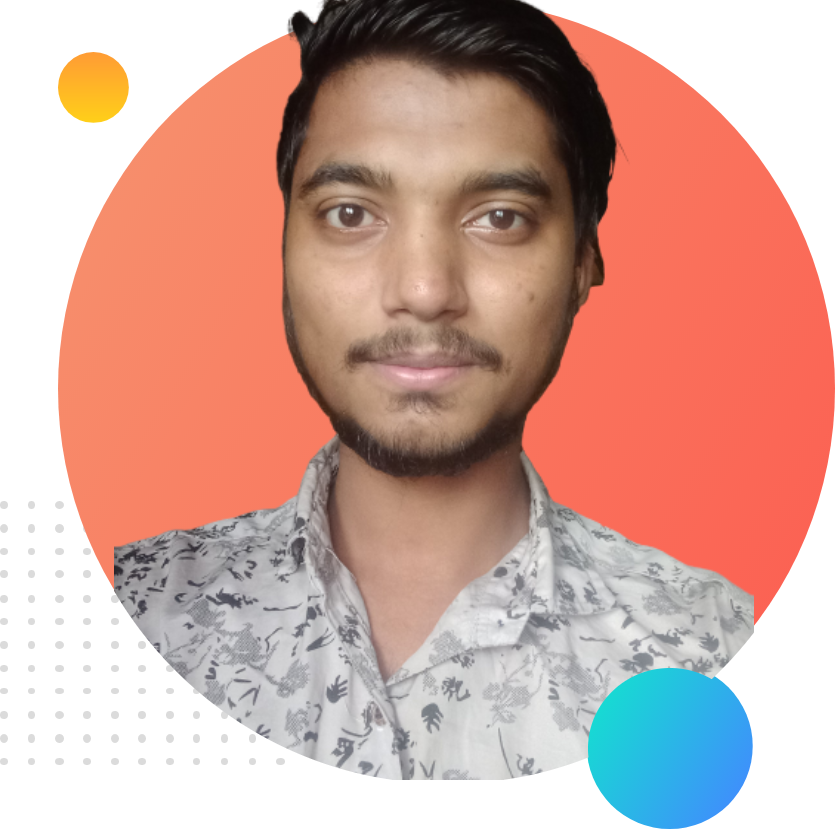
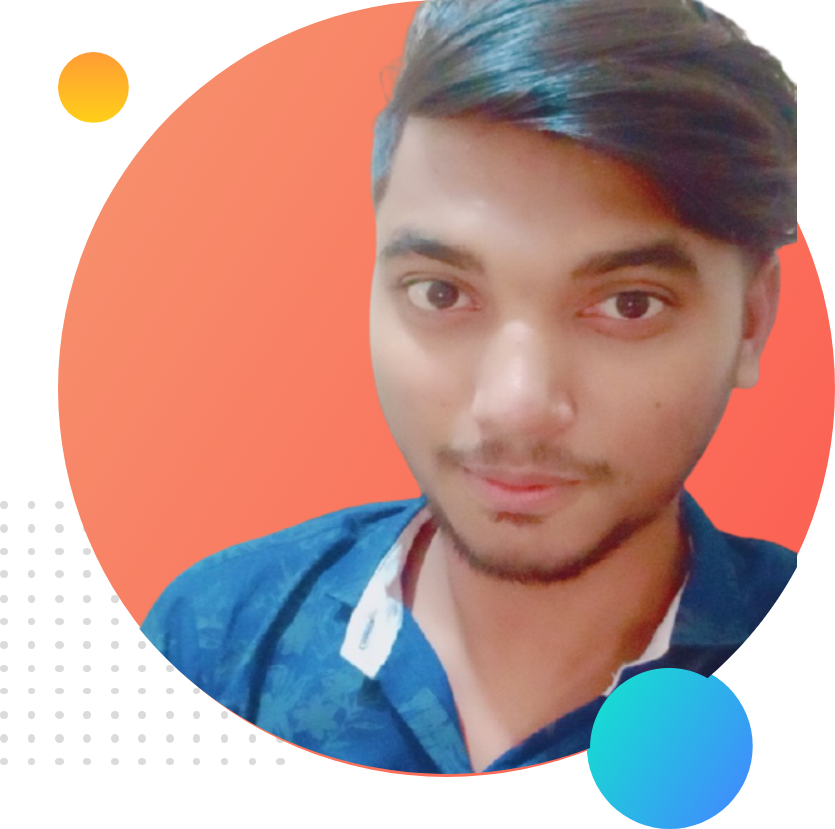
skill

diff --git a/src/components/About/About.js b/src/components/About/About.js
@@ -3,7 +3,137 @@ import React from 'react';
 const About = () => {
     return (
         <div>
-            <h1>this is about</h1>
+            <h2 className="text-center text-light">About</h2>
+            <div className="row mt-5 mb-5  text-light">
+                <p className="col-md-6" style={{ textAlign: 'justify' }}><b className="text-info">Myself:</b> I am Mehedy Hassan. I am a Professional Web Developer. I can do HTML, CSS, JS React & others programming languages in professionally. I have learned web development since 2020. Now I can do all kinds of web development work. I always want to learn something new and benefit people through it.</p>
+                <p className="col-md-6" style={{ textAlign: 'justify' }}><b className="text-info">Diligent Project Management:</b> Offering a proven record of success leading all phases of diverse React  Projects, Solutions Designs, Enterprise Deployments, Cross Platform Migrations, Annual Maintenance Support etc etc …</p>
+                <p className="col-md-6" style={{ textAlign: 'justify' }}><b className="text-info">Business Strategist:</b> Plan and Manage high value projects aligning business goals with technology solutions to drive process improvements, competitive advantage and bottom-line gains. Apply change of Strategy when necessary to produce high-quality deliverables which meets timeline and budgetary targets.</p>
+                <p className="col-md-6" style={{ textAlign: 'justify' }}><b className="text-info">Excellent Communicator:</b> Leverage Technical, Business and Financial acumen to communicate effectively with client executives and their respective teams. Conducting Productive Corporate Trainings as MCT, to create opportunity of future business continuation and keep customers aligned with industries best practice and latest updates on relevant product and solutions.</p>
+            </div>
+            <div className="text-light">
+                <h2 className="text-center text-light">Skills</h2>
+                <div className="row ">
+                    <p className="col-md-2">CSS</p>
+                    <div className="col-md-10">
+                        <div className="progress">
+                            <div className="progress-bar progress-bar-striped bg-warning" role="progressbar" style={{ width: '90%' }} aria-valuenow="75" aria-valuemin="0" aria-valuemax="100">
+                                <p className="pt-3">90%</p>
+                            </div>
+                        </div>
+                    </div>
+                </div>
+                <div className="row">
+                    <p className="col-md-2">HTML</p>
+                    <div className="col-md-10">
+                        <div className="progress">
+                            <div className="progress-bar progress-bar-striped bg-danger" role="progressbar" style={{ width: '95%' }} aria-valuenow="75" aria-valuemin="0" aria-valuemax="100">
+                                <p className="pt-3">95%</p>
+                            </div>
+                        </div>
+                    </div>
+                </div>
+                <div className="row">
+                    <p className="col-md-2">JavaScript</p>
+                    <div className="col-md-10">
+                        <div className="progress">
+                            <div className="progress-bar progress-bar-striped bg-info" role="progressbar" style={{ width: '90%' }} aria-valuenow="75" aria-valuemin="0" aria-valuemax="100">
+                                <p className="pt-3">90%</p>
+                            </div>
+                        </div>
+                    </div>
+                </div>
+                <div className="row">
+                    <p className="col-md-2">React</p>
+                    <div className="col-md-10">
+                        <div className="progress">
+                            <div className="progress-bar progress-bar-striped bg-success" role="progressbar" style={{ width: '85%' }} aria-valuenow="75" aria-valuemin="0" aria-valuemax="100">
+                                <p className="pt-3">85%</p>
+                            </div>
+                        </div>
+                    </div>
+                </div>
+                <div className="row">
+                    <p className="col-md-2">Bootstrap</p>
+                    <div className="col-md-10">
+                        <div className="progress">
+                            <div className="progress-bar progress-bar-striped bg-dark" role="progressbar" style={{ width: '90%' }} aria-valuenow="75" aria-valuemin="0" aria-valuemax="100">
+                                <p className="pt-3">90%</p>
+                            </div>
+                        </div>
+                    </div>
+                </div>
+                <div className="row">
+                    <p className="col-md-2">Node.js</p>
+                    <div className="col-md-10">
+                        <div className="progress">
+                            <div className="progress-bar progress-bar-striped bg-primary" role="progressbar" style={{ width: '85%' }} aria-valuenow="75" aria-valuemin="0" aria-valuemax="100">
+                                <p className="pt-3">85%</p>
+                            </div>
+                        </div>
+                    </div>
+                </div>
+                <div className="row">
+                    <p className="col-md-2">Material ui</p>
+                    <div className="col-md-10">
+                        <div className="progress">
+                            <div className="progress-bar progress-bar-striped bg-warning" role="progressbar" style={{ width: '80%' }} aria-valuenow="75" aria-valuemin="0" aria-valuemax="100">
+                                <p className="pt-3">80%</p>
+                            </div>
+                        </div>
+                    </div>
+                </div>
+                <div className="row">
+                    <p className="col-md-2">Express.js</p>
+                    <div className="col-md-10">
+                        <div className="progress">
+                            <div className="progress-bar progress-bar-striped bg-danger" role="progressbar" style={{ width: '60%' }} aria-valuenow="75" aria-valuemin="0" aria-valuemax="100">
+                                <p className="pt-3">60%</p>
+                            </div>
+                        </div>
+                    </div>
+                </div>
+                <div className="row">
+                    <p className="col-md-2">Mongodb</p>
+                    <div className="col-md-10">
+                        <div className="progress">
+                            <div className="progress-bar progress-bar-striped bg-info" role="progressbar" style={{ width: '70%' }} aria-valuenow="75" aria-valuemin="0" aria-valuemax="100">
+                                <p className="pt-3">70%</p>
+                            </div>
+                        </div>
+                    </div>
+                </div>
+                <div className="row">
+                    <p className="col-md-2">Firebase</p>
+                    <div className="col-md-10">
+                        <div className="progress">
+                            <div className="progress-bar progress-bar-striped bg-success" role="progressbar" style={{ width: '60%' }} aria-valuenow="75" aria-valuemin="0" aria-valuemax="100">
+                                <p className="pt-3">60%</p>
+                            </div>
+                        </div>
+                    </div>
+                </div>
+                <div className="row">
+                    <p className="col-md-2">Heroku</p>
+                    <div className="col-md-10">
+                        <div className="progress">
+                            <div className="progress-bar progress-bar-striped bg-dark" role="progressbar" style={{ width: '75%' }} aria-valuenow="75" aria-valuemin="0" aria-valuemax="100">
+                                <p className="pt-3">75%</p>
+                            </div>
+                        </div>
+                    </div>
+                </div>
+                <div className="row">
+                    <p className="col-md-2">Redux</p>
+                    <div className="col-md-10">
+                        <div className="progress">
+                            <div className="progress-bar progress-bar-striped bg-primary" role="progressbar" style={{ width: '70%' }} aria-valuenow="75" aria-valuemin="0" aria-valuemax="100">
+                                <p className="pt-3">70%</p>
+                            </div>
+                        </div>
+                    </div>
+                </div>
+
+            </div>
         </div>
     );
 };

diff --git a/src/components/Header/Header.js b/src/components/Header/Header.js
@@ -6,25 +6,26 @@ import { Link } from 'react-router-dom';
 
 const Header = () => {
     return (
-        <div style={{backgroundColor: '#dfe185'}} className="row align-items-center">
-            <div className="col-6 p-2">
-                <h1 className=" text-primary">Mehedy</h1>
+        <div>
+            <div style={{ backgroundColor: '#dfe185' }} className="row align-items-center">
+                <div className="col-6 p-2">
+                    <h1 className=" text-primary">Mehedy</h1>
+                </div>
+                <div className="col-6 justify-content-end ">
+                    <Navbar className="justify-content-end  " expand="lg">
+                        <Navbar.Toggle aria-controls="basic-navbar-nav" />
+                        <Navbar.Collapse id="basic-navbar-nav ">
+                            <Nav className="mr-auto" activeKey="/home">
+                                <Link className="p-2" to="/home"><FontAwesomeIcon icon={faHome} /> Home</Link>
+                                <Link className="p-2" to="/about"><FontAwesomeIcon icon={faAddressCard} /> About</Link>
+                                <Link className="p-2" to="/project"><FontAwesomeIcon icon={faTasks} /> Project</Link>
+                                <Link className="p-2" to="/resume"><FontAwesomeIcon icon={faFileWord} /> Resume</Link>
+                                <Link className="p-2" to="/blog"><FontAwesomeIcon icon={faThLarge} /> Blog</Link>
+                            </Nav>
+                        </Navbar.Collapse>
+                    </Navbar>
+                </div>
             </div>
-            <div className="col-6 justify-content-end ">
-                <Navbar className="justify-content-end  " expand="lg">
-                    <Navbar.Toggle aria-controls="basic-navbar-nav" />
-                    <Navbar.Collapse id="basic-navbar-nav ">
-                        <Nav className="mr-auto" activeKey="/home">
-                            <Link className="p-2" to="/home"><FontAwesomeIcon icon={faHome} /> Home</Link>
-                            <Link className="p-2" to="/project"><FontAwesomeIcon icon={faTasks} /> Project</Link>
-                            <Link className="p-2" to="/resume"><FontAwesomeIcon icon={faFileWord} /> Resume</Link>
-                            <Link className="p-2" to="/blog"><FontAwesomeIcon icon={faThLarge} /> Blog</Link>
-                            <Link className="p-2" to="/about"><FontAwesomeIcon icon={faAddressCard} /> About</Link>
-                        </Nav>
-                    </Navbar.Collapse>
-                </Navbar>
-            </div>
-
         </div>
     );
 };

diff --git a/src/components/Footer/Footer.js b/src/components/Footer/Footer.js
@@ -5,11 +5,11 @@ import React from 'react';
 const Footer = () => {
     return (
             <div  style={{backgroundColor: '#dfe185'}}  class="col d-flex justify-content-center">
-                <a className="p-2" href="https://www.facebook.com/mehedysr"><FontAwesomeIcon icon={faFacebook} /></a>
-                <a className="p-2  text-dark"  href="https://github.com/mdmehedyhassan"><FontAwesomeIcon icon={faGithub} /></a>
-                <a className="p-2 text-primary"  href="https://twitter.com/MdMehedyHassa10"><FontAwesomeIcon icon={faTwitter} /></a>
-                <a className="p-2"  href="https://www.linkedin.com/in/md-mehedy-hassan-387278203/"><FontAwesomeIcon icon={faLinkedin} /></a>
-                <a className="p-2 text-danger"  href=""><FontAwesomeIcon icon={faYoutube} /></a>
+                <a className="p-2" target="_blank"  href="https://www.facebook.com/mehedysr"><FontAwesomeIcon icon={faFacebook} /></a>
+                <a className="p-2  text-dark" target="_blank"   href="https://github.com/mdmehedyhassan"><FontAwesomeIcon icon={faGithub} /></a>
+                <a className="p-2 text-primary" target="_blank"   href="https://twitter.com/MdMehedyHassa10"><FontAwesomeIcon icon={faTwitter} /></a>
+                <a className="p-2" target="_blank"   href="https://www.linkedin.com/in/md-mehedy-hassan-387278203/"><FontAwesomeIcon icon={faLinkedin} /></a>
+                <a className="p-2 text-danger"  target="_blank"  href="https://www.youtube.com/"><FontAwesomeIcon icon={faYoutube} /></a>
             </div>
 
     );

diff --git a/src/components/HomeHeader/HomeHeader.js b/src/components/HomeHeader/HomeHeader.js
@@ -1,10 +1,19 @@
 import React from 'react';
+import mehedy1 from '../../images/mehedy1.png'
 
 const HomeHeader = () => {
     return (
-        <div class="row d-flex text-light">
-            <div class="col-md-6">.col-6</div>
-            <div class="col-md-6">.col-6</div>
+        <div class="row mb-5 d-flex align-items-center text-light">
+            <div class="col-md-6">
+                <h1>Hello, I'M </h1>
+                <h1>MD Mehedy Hassan</h1>
+                <h3>Full Stack Web developer</h3>
+                <h3>with in Bangladesh</h3>
+                <a className="btn btn-success" target="_blank" href="https://drive.google.com/file/d/1quuqu9NmjQz4eSFOkHzfX2kLE0TqXeDV/view"> Download Resume</a>
+            </div>
+            <div class="col-md-6">
+                <img className="w-100" src={mehedy1} alt=""/>
+            </div>
         </div>
     );
 };

diff --git a/src/App.js b/src/App.js
@@ -24,6 +24,9 @@ function App() {
             <Route path="/home">
               <Home />
             </Route>
+            <Route path="/about">
+              <About />
+            </Route>
             <Route path="/project">
               <Project />
             </Route>
@@ -32,9 +35,6 @@ function App() {
             </Route>
             <Route path="/blog">
               <Blog />
-            </Route>
-            <Route path="/about">
-              <About />
             </Route>
             <Route exact path="/">
               <Home />

diff --git a/src/components/Project/Project.js b/src/components/Project/Project.js
@@ -4,6 +4,7 @@ const Project = () => {
     return (
         <div>
             <h1> this is Project</h1>
+
         </div>
     );
 };

diff --git a/README.md b/README.md
@@ -1,71 +1,5 @@
-# Getting Started with Create React App
+## Getting Started with Create React App
 
 This project was bootstrapped with [Create React App](https://github.com/facebook/create-react-app).
 
-## Available Scripts
-
-In the project directory, you can run:
-
-### `npm start`
-
-Runs the app in the development mode.\
-Open [http://localhost:3000](http://localhost:3000) to view it in the browser.
-
-The page will reload if you make edits.\
-You will also see any lint errors in the console.
-
-### `npm test`
-
-Launches the test runner in the interactive watch mode.\
-See the section about [running tests](https://facebook.github.io/create-react-app/docs/running-tests) for more information.
-
-### `npm run build`
-
-Builds the app for production to the `build` folder.\
-It correctly bundles React in production mode and optimizes the build for the best performance.
-
-The build is minified and the filenames include the hashes.\
-Your app is ready to be deployed!
-
-See the section about [deployment](https://facebook.github.io/create-react-app/docs/deployment) for more information.
-
-### `npm run eject`
-
-**Note: this is a one-way operation. Once you `eject`, you can’t go back!**
-
-If you aren’t satisfied with the build tool and configuration choices, you can `eject` at any time. This command will remove the single build dependency from your project.
-
-Instead, it will copy all the configuration files and the transitive dependencies (webpack, Babel, ESLint, etc) right into your project so you have full control over them. All of the commands except `eject` will still work, but they will point to the copied scripts so you can tweak them. At this point you’re on your own.
-
-You don’t have to ever use `eject`. The curated feature set is suitable for small and middle deployments, and you shouldn’t feel obligated to use this feature. However we understand that this tool wouldn’t be useful if you couldn’t customize it when you are ready for it.
-
-## Learn More
-
-You can learn more in the [Create React App documentation](https://facebook.github.io/create-react-app/docs/getting-started).
-
-To learn React, check out the [React documentation](https://reactjs.org/).
-
-### Code Splitting
-
-This section has moved here: [https://facebook.github.io/create-react-app/docs/code-splitting](https://facebook.github.io/create-react-app/docs/code-splitting)
-
-### Analyzing the Bundle Size
-
-This section has moved here: [https://facebook.github.io/create-react-app/docs/analyzing-the-bundle-size](https://facebook.github.io/create-react-app/docs/analyzing-the-bundle-size)
-
-### Making a Progressive Web App
-
-This section has moved here: [https://facebook.github.io/create-react-app/docs/making-a-progressive-web-app](https://facebook.github.io/create-react-app/docs/making-a-progressive-web-app)
-
-### Advanced Configuration
-
-This section has moved here: [https://facebook.github.io/create-react-app/docs/advanced-configuration](https://facebook.github.io/create-react-app/docs/advanced-configuration)
-
-### Deployment
-
-This section has moved here: [https://facebook.github.io/create-react-app/docs/deployment](https://facebook.github.io/create-react-app/docs/deployment)
-
-### `npm run build` fails to minify
-
-This section has moved here: [https://facebook.github.io/create-react-app/docs/troubleshooting#npm-run-build-fails-to-minify](https://facebook.github.io/create-react-app/docs/troubleshooting#npm-run-build-fails-to-minify)
-# my-protfolio
+## About 
